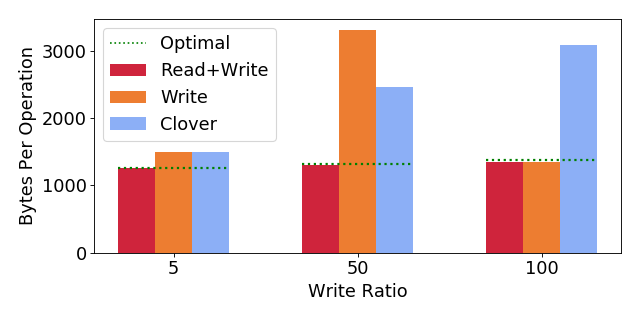
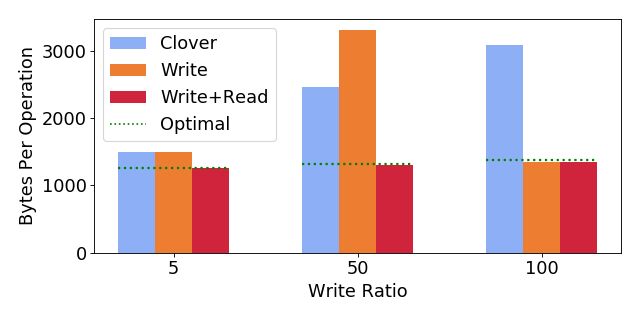
updated bandwidth chart

diff --git a/papers/OSDI22/fig/bandwidth_reduction.py b/papers/OSDI22/fig/bandwidth_reduction.py
@@ -39,10 +39,10 @@ width = 0.2  # the width of the bars
 div=1
 plt.rcParams.update({'font.size': 16})
 fig, ax = plt.subplots(figsize=(8,4), dpi=80)
-rects0 = ax.bar(x - width, read_write, width, label='Read+Write',color=read_write_steering_color)
-rects1 = ax.bar(x, write, width, label='Write',color=write_steering_color)
-rects2 = ax.bar(x + width, clover, width, label='Clover',color=default_clover_color)
 plot_optimal(ax,optimal,x,3,width)
+rects2 = ax.bar(x - width, clover, width, label='Clover',color=default_clover_color)
+rects1 = ax.bar(x, write, width, label='Write',color=write_steering_color)
+rects0 = ax.bar(x + width, read_write, width, label='Write+Read',color=read_write_steering_color)
 
 
 # Add some text for labels, title and custom x-axis tick labels, etc.
@@ -50,7 +50,12 @@ ax.set_ylabel('Bytes Per Operation')
 ax.set_xticks(x)
 ax.set_xticklabels(labels)
 ax.set_xlabel("Write Ratio")
-ax.legend()
+
+handles, labels = ax.get_legend_handles_labels()
+order = [1,2,3,0]
+ax.legend([handles[idx] for idx in order],[labels[idx] for idx in order])
+
+#ax.legend()
 
 
 #ax.bar_label(rects1, padding=3)
